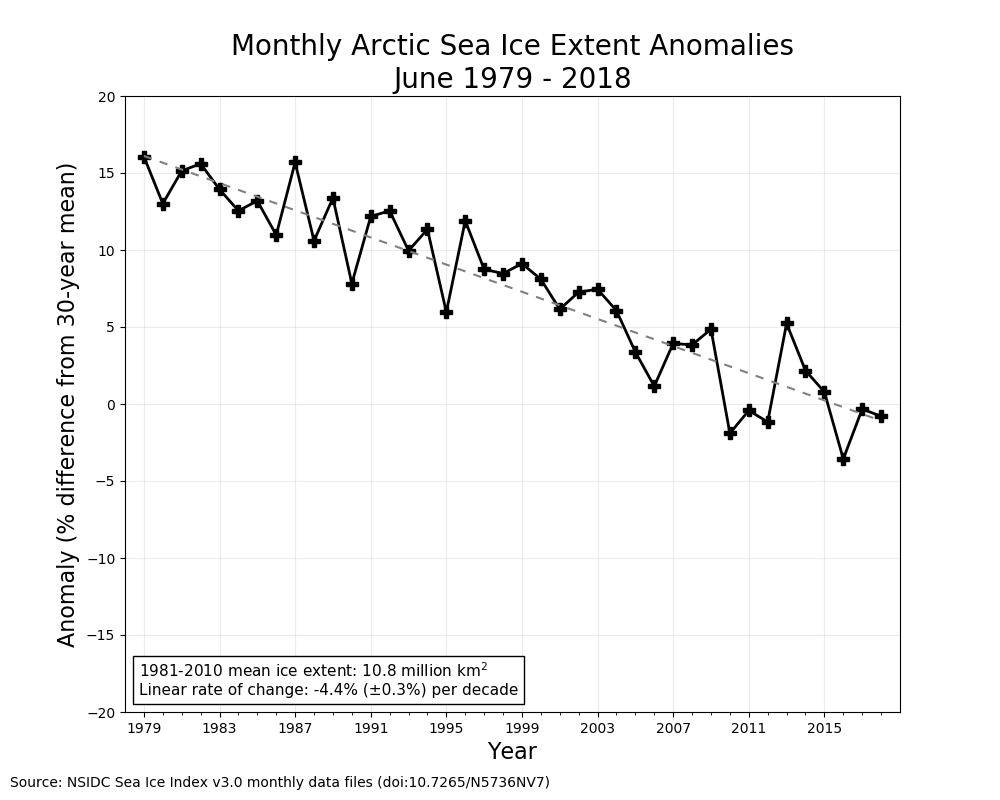
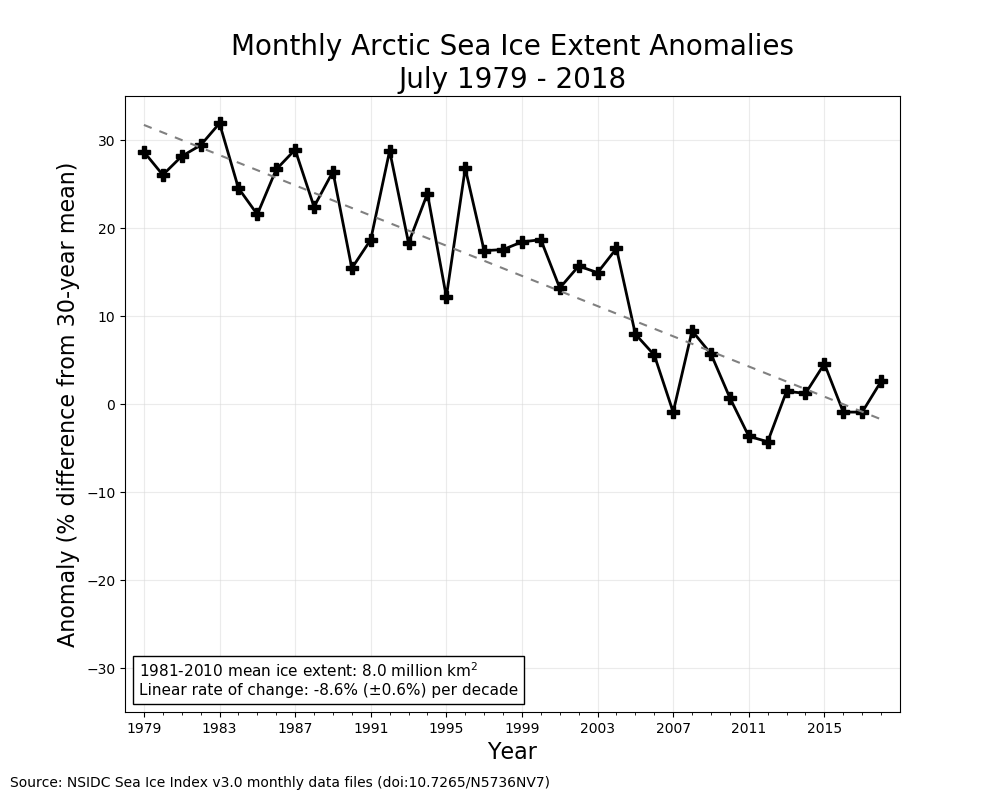
Update plots for July 2018

diff --git a/nsidc-tools/MonthlyIceIndexPlotter.py b/nsidc-tools/MonthlyIceIndexPlotter.py
@@ -60,9 +60,9 @@ def download_monthly_data(download_dir, hemisphere='N'):
         if not os.path.exists(dst_file):
             you_gotta_download = True
         else:
-            # Re-download the file if it is >15 days older relative to current day at start of script execution
+            # Re-download the file if it is >5 days older relative to current day at start of script execution
             modtime = datetime.fromtimestamp(os.path.getmtime(dst_file))
-            if modtime <= today - relativedelta(days=5):
+            if modtime <= (today - relativedelta(days=5)):
                 you_gotta_download = True
         if you_gotta_download: # then go get it!
             print "Retrieving {}-hemisphere monthly data ({}) from NSIDC FTP...".format(hemisphere, curr_month)

diff --git a/nsidc-tools/DailyIceIndexPlotter.py b/nsidc-tools/DailyIceIndexPlotter.py
@@ -81,7 +81,7 @@ def download_daily_data(download_dir, hemisphere='N'):
     else:
         # Re-download the file if it is >=12 hours older relative to current day at start of script execution
         modtime = datetime.fromtimestamp(os.path.getmtime(target_daily))
-        if modtime <= today - timedelta(0.5):
+        if modtime <= (today - timedelta(0.5)):
             you_gotta_download = True
     if you_gotta_download: # then download!
         print "Retrieving {}-hemisphere daily data from NSIDC FTP...".format(hemisphere)
